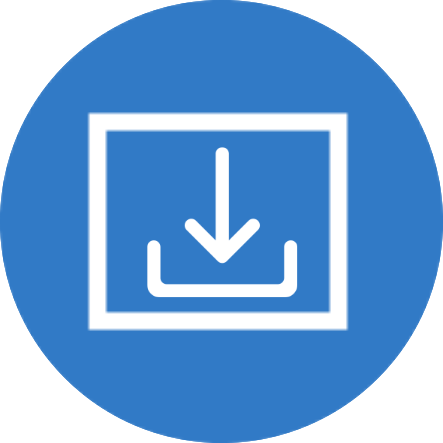
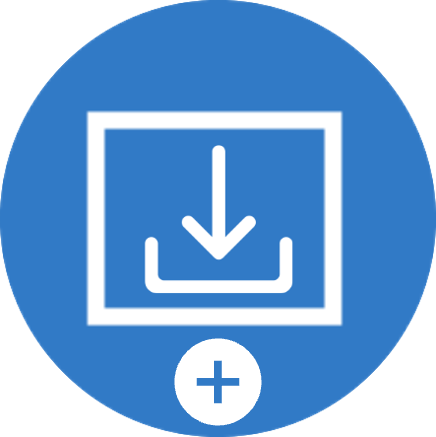
被商城下架，修改描述和图标

Changed region(s): [[0.3876, 0.7735, 0.6261, 0.9817]]

diff --git a/src/extension.ts b/src/extension.ts
@@ -1,5 +1,5 @@
 import * as vscode from "vscode";
-import { exec } from "child_process";
+import { exec, execFile } from "child_process";
 import * as path from "path";
 import * as os from "os";
 import * as fs from "fs";
@@ -110,8 +110,7 @@ function installRsync(): Promise<void> {
  */
 function testPasswordlessSSH(remoteName: string): Promise<boolean> {
   return new Promise((resolve) => {
-    const testCommand = `ssh -o BatchMode=yes "${remoteName}" exit`;
-    exec(testCommand, (error) => {
+    execFile("ssh", ["-o", "BatchMode=yes", remoteName, "exit"], (error) => {
       if (error) {
         // Non-zero exit could be from permission denied or host not found
         resolve(false);
@@ -348,35 +347,36 @@ export function activate(context: vscode.ExtensionContext) {
 
       // 6) Construct the transfer command (rsync for Unix, scp for Windows)
       const platform = os.platform();
-      let command: string;
+      let executable: string;
+      const args: string[] = [];
 
       if (platform === "win32") {
         // Use scp on Windows
-        const remoteFiles = uriList.map((uri) => {
-          return `"${remoteName}:${uri.path}"`;
+        executable = "scp";
+        args.push("-o", "BatchMode=yes", "-r");
+        uriList.forEach((uri) => {
+          args.push(`${remoteName}:${uri.path}`);
         });
-        // scp doesn't support multiple source files in one command like rsync
-        // We'll handle multiple files by copying them one by one
-        command = `scp -o BatchMode=yes -r ${remoteFiles.join(" ")} "${destinationPath}"`;
+        args.push(destinationPath);
       } else {
         // Use rsync on Unix-like systems
-        const remoteFiles = uriList.map((uri) => {
-          return `"${remoteName}:${uri.path}"`;
+        executable = "rsync";
+        args.push("-P", "-avz", "-e", "ssh -o BatchMode=yes");
+        uriList.forEach((uri) => {
+          args.push(`${remoteName}:${uri.path}`);
         });
-        command = `rsync -P -avz -e "ssh -o BatchMode=yes" ${remoteFiles.join(
-          " "
-        )} "${destinationPath}"`;
+        args.push(destinationPath);
       }
 
       // 7) Execute the transfer command
       // outputChannel.show(true);
       outputChannel.clear();
       outputChannel.appendLine(`Platform: ${platform}`);
-      outputChannel.appendLine(`Transfer method: ${platform === "win32" ? "scp" : "rsync"}`);
+      outputChannel.appendLine(`Transfer method: ${executable}`);
       outputChannel.appendLine(`Remote files: ${uriList.map((uri) => `${remoteName}:${uri.path}`).join(" ")}`);
-      outputChannel.appendLine(`Running: ${command}`);
+      outputChannel.appendLine(`Running: ${executable} ${args.join(" ")}`);
 
-      exec(command, (error, stdout, stderr) => {
+      execFile(executable, args, (error, stdout, stderr) => {
         if (error) {
           if (
             stderr.includes("Permission denied") ||

diff --git a/README.md b/README.md
@@ -1,4 +1,6 @@
-# Remote - SSH: Fast Download
+# Remote - SSH: Fast Download (JSJM Fork)
+
+> **Disclaimer & Acknowledgement**: This is a modified fork of the original [vsc-download-compressed](https://github.com/SamueleTorregrossa/vsc-download-compressed) extension created by Samuele Torregrossa. It includes command injection security fixes, enhanced Windows SCP support, and UI path-selection improvements.
 
 Allows for fast and efficient downloads of files and directories from a **VSCode Remote SSH** session to your local machine.
 
@@ -74,7 +76,11 @@ Allows for fast and efficient downloads of files and directories from a **VSCode
 
 ## Contributing
 
-Contributions are welcome! Please submit issues or pull requests to the [GitHub repository](https://github.com/SamueleTorregrossa/vsc-download-compressed).
+Contributions are welcome! Please submit issues or pull requests to the [GitHub repository](https://github.com/Jinshijiming/vsc-download-compressed).
+
+## Acknowledgements
+
+Special thanks to **Samuele Torregrossa** for creating the original [vsc-download-compressed](https://github.com/SamueleTorregrossa/vsc-download-compressed) extension. This fork builds upon their excellent work under the terms of the MIT License.
 
 ## License
 
